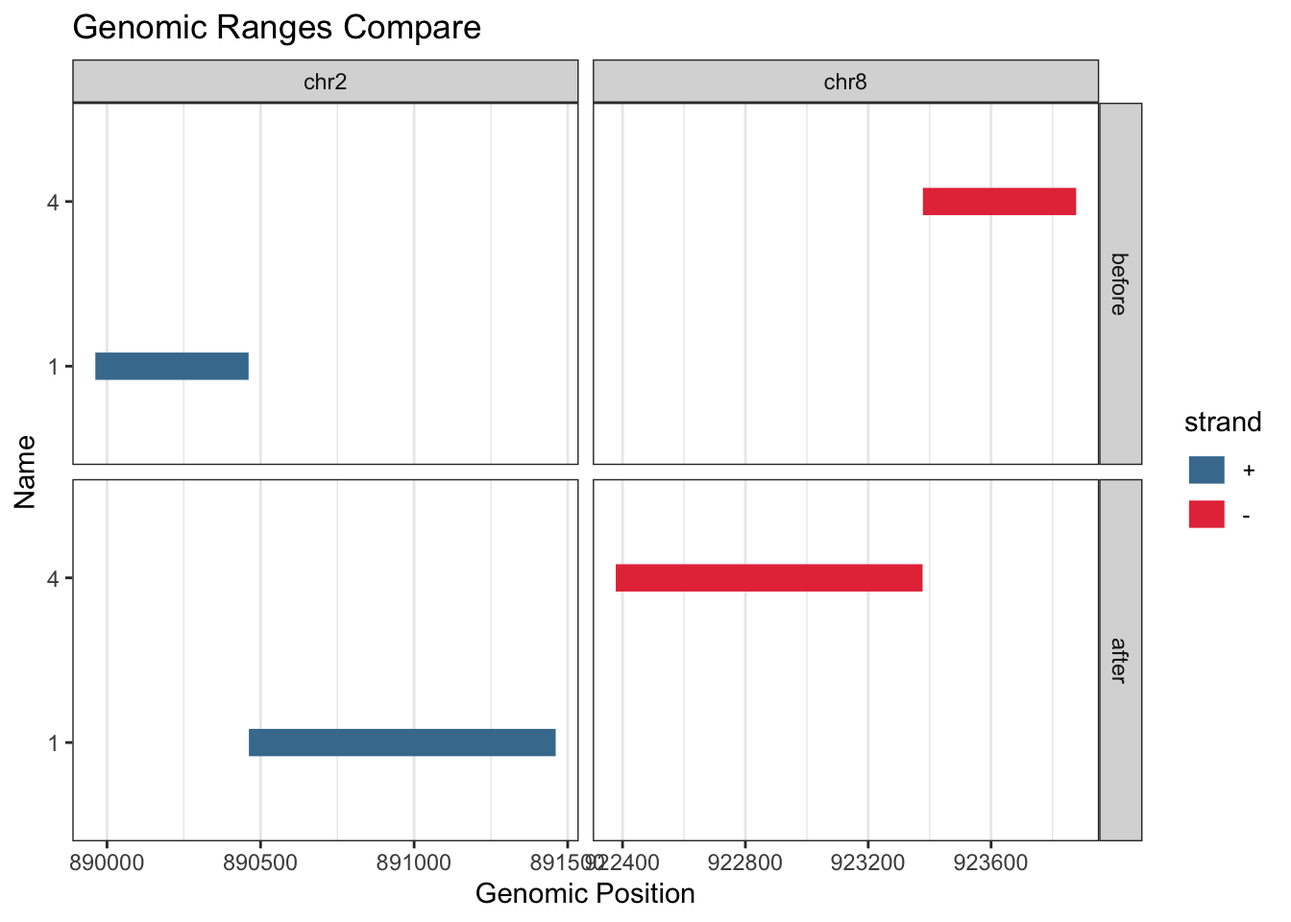
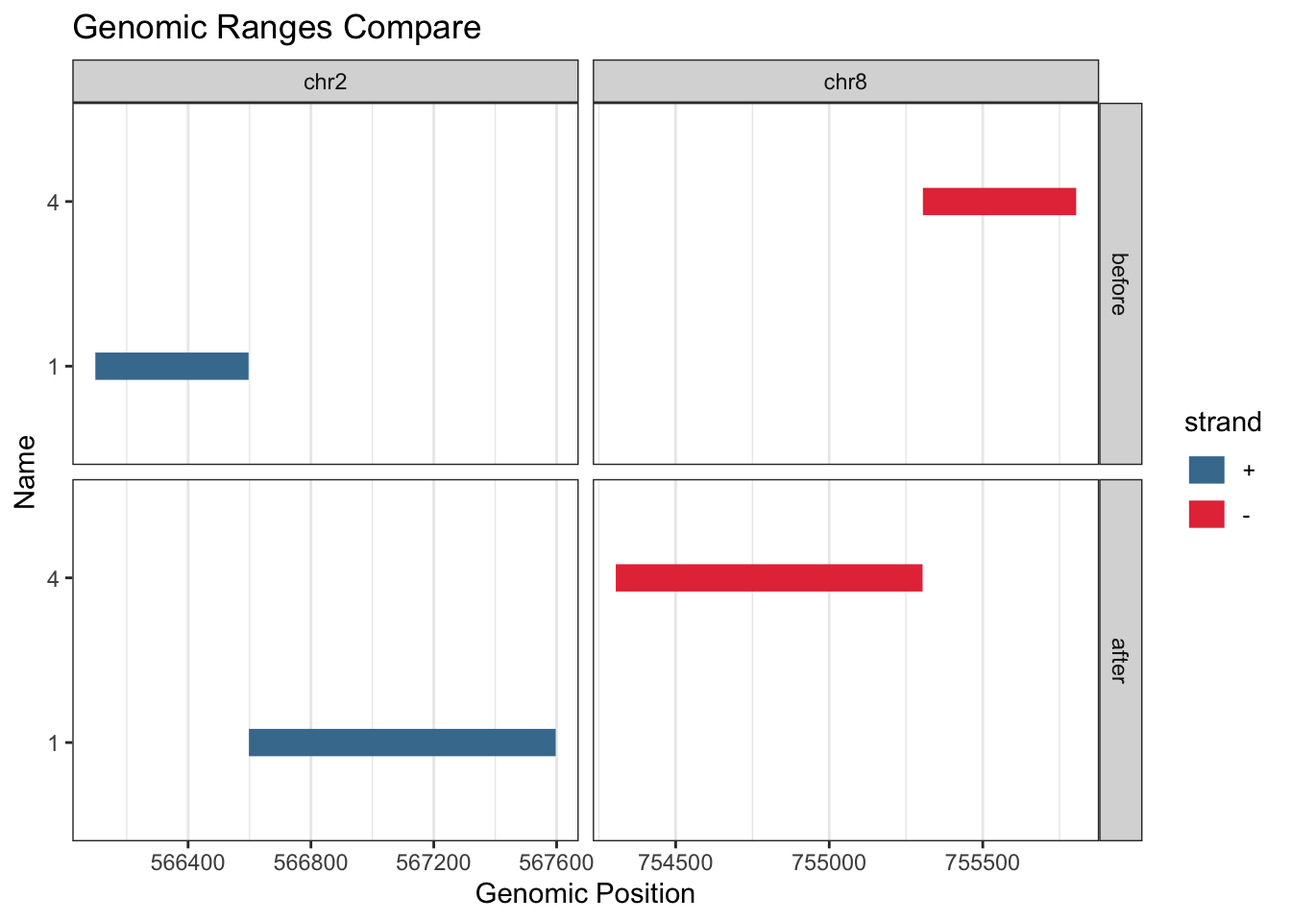
failsafe for pg2 function

Changed region(s): [[0.4062, 0.9062, 0.6875, 0.9688], [0.0625, 0.9062, 0.375, 0.9688], [0.7188, 0.9062, 0.8125, 0.9688]]

diff --git a/docs/03-genomicRanges.html b/docs/03-genomicRanges.html
@@ -403,11 +403,11 @@ pre > code.sourceCode > span > a:first-child::before { text-decoration: underlin
 <pre><code>GRanges object with 5 ranges and 1 metadata column:
       seqnames        ranges strand |     names
          &lt;Rle&gt;     &lt;IRanges&gt;  &lt;Rle&gt; | &lt;integer&gt;
-  [1]     chr2 889962-890461      + |         1
-  [2]     chr4 131544-132043      + |         2
-  [3]     chr6 316003-316502      + |         3
-  [4]     chr8 923378-923877      - |         4
-  [5]    chr10 153184-153683      - |         5
+  [1]     chr2 566098-566597      + |         1
+  [2]     chr4 111897-112396      + |         2
+  [3]     chr6 382826-383325      + |         3
+  [4]     chr8 755305-755804      - |         4
+  [5]    chr10 422810-423309      - |         5
   -------
   seqinfo: 5 sequences from an unspecified genome; no seqlengths</code></pre>
 </div>
@@ -437,11 +437,11 @@ $Experiment_2
 GRanges object with 5 ranges and 1 metadata column:
       seqnames        ranges strand |     names
          &lt;Rle&gt;     &lt;IRanges&gt;  &lt;Rle&gt; | &lt;numeric&gt;
-  [1]     chr2 889962-890461      + |         1
-  [2]     chr4 131544-132043      + |         2
-  [3]     chr6 316003-316502      + |         3
-  [4]     chr8 923378-923877      - |         4
-  [5]    chr10 153184-153683      - |         5
+  [1]     chr2 566098-566597      + |         1
+  [2]     chr4 111897-112396      + |         2
+  [3]     chr6 382826-383325      + |         3
+  [4]     chr8 755305-755804      - |         4
+  [5]    chr10 422810-423309      - |         5
   -------
   seqinfo: 5 sequences from an unspecified genome; no seqlengths</code></pre>
 </div>
@@ -480,12 +480,12 @@ Levels: chr2 chr6 chr10</code></pre>
 <div class="code-copy-outer-scaffold"><div class="sourceCode cell-code" id="cb15"><pre class="sourceCode r code-with-copy"><code class="sourceCode r"><span id="cb15-1"><a href="#cb15-1" aria-hidden="true" tabindex="-1"></a><span class="do">## Get the start positions</span></span>
 <span id="cb15-2"><a href="#cb15-2" aria-hidden="true" tabindex="-1"></a><span class="fu">start</span>(gr2)</span></code></pre></div><button title="Copy to Clipboard" class="code-copy-button"><i class="bi"></i></button></div>
 <div class="cell-output cell-output-stdout">
-<pre><code>[1] 889962 131544 316003 923378 153184</code></pre>
+<pre><code>[1] 566098 111897 382826 755305 422810</code></pre>
 </div>
 <div class="code-copy-outer-scaffold"><div class="sourceCode cell-code" id="cb17"><pre class="sourceCode r code-with-copy"><code class="sourceCode r"><span id="cb17-1"><a href="#cb17-1" aria-hidden="true" tabindex="-1"></a><span class="do">## Get the end positions</span></span>
 <span id="cb17-2"><a href="#cb17-2" aria-hidden="true" tabindex="-1"></a><span class="fu">end</span>(gr2)</span></code></pre></div><button title="Copy to Clipboard" class="code-copy-button"><i class="bi"></i></button></div>
 <div class="cell-output cell-output-stdout">
-<pre><code>[1] 890461 132043 316502 923877 153683</code></pre>
+<pre><code>[1] 566597 112396 383325 755804 423309</code></pre>
 </div>
 <div class="code-copy-outer-scaffold"><div class="sourceCode cell-code" id="cb19"><pre class="sourceCode r code-with-copy"><code class="sourceCode r"><span id="cb19-1"><a href="#cb19-1" aria-hidden="true" tabindex="-1"></a><span class="do">## Get the strand information</span></span>
 <span id="cb19-2"><a href="#cb19-2" aria-hidden="true" tabindex="-1"></a><span class="fu">strand</span>(gr2)</span></code></pre></div><button title="Copy to Clipboard" class="code-copy-button"><i class="bi"></i></button></div>
@@ -581,11 +581,11 @@ Levels(3): + - *</code></pre>
    [3]     chr6       300-400      * |         3      0.50
    [4]     chr6       350-500      * |         4      0.25
    [5]    chr10       500-600      * |         5      0.00
-   [6]     chr2 889962-890461      + |         1        NA
-   [7]     chr4 131544-132043      + |         2        NA
-   [8]     chr6 316003-316502      + |         3        NA
-   [9]     chr8 923378-923877      - |         4        NA
-  [10]    chr10 153184-153683      - |         5        NA
+   [6]     chr2 566098-566597      + |         1        NA
+   [7]     chr4 111897-112396      + |         2        NA
+   [8]     chr6 382826-383325      + |         3        NA
+   [9]     chr8 755305-755804      - |         4        NA
+  [10]    chr10 422810-423309      - |         5        NA
   -------
   seqinfo: 5 sequences from an unspecified genome; no seqlengths</code></pre>
 </div>
@@ -597,8 +597,8 @@ Levels(3): + - *</code></pre>
 <pre><code>GRanges object with 2 ranges and 1 metadata column:
       seqnames        ranges strand |     names
          &lt;Rle&gt;     &lt;IRanges&gt;  &lt;Rle&gt; | &lt;integer&gt;
-  [1]     chr8 923378-923877      - |         4
-  [2]    chr10 153184-153683      - |         5
+  [1]     chr8 755305-755804      - |         4
+  [2]    chr10 422810-423309      - |         5
   -------
   seqinfo: 5 sequences from an unspecified genome; no seqlengths</code></pre>
 </div>
@@ -711,7 +711,7 @@ GRanges object with 0 ranges and 2 metadata columns:
          &lt;Rle&gt;     &lt;IRanges&gt;  &lt;Rle&gt; | &lt;numeric&gt; &lt;numeric&gt;
   [1]     chr2       100-200      * |         1      1.00
   [2]     chr2       150-300      * |         2      0.75
-  [3]     chr2 889962-890461      + |         1        NA
+  [3]     chr2 566098-566597      + |         1        NA
   -------
   seqinfo: 5 sequences from an unspecified genome; no seqlengths</code></pre>
 </div>
@@ -768,35 +768,35 @@ GRanges object with 0 ranges and 2 metadata columns:
 <span id="cb41-33"><a href="#cb41-33" aria-hidden="true" tabindex="-1"></a>    <span class="fu">mcols</span>(gr2)[name] <span class="ot">&lt;-</span> <span class="fu">seq</span>(<span class="dv">1</span>,<span class="fu">length</span>(gr2))</span>
 <span id="cb41-34"><a href="#cb41-34" aria-hidden="true" tabindex="-1"></a>  }</span>
 <span id="cb41-35"><a href="#cb41-35" aria-hidden="true" tabindex="-1"></a>  </span>
-<span id="cb41-36"><a href="#cb41-36" aria-hidden="true" tabindex="-1"></a>  <span class="cf">if</span>(<span class="sc">!</span><span class="st">"-"</span> <span class="sc">%in%</span> <span class="fu">strand</span>(gr)){</span>
+<span id="cb41-36"><a href="#cb41-36" aria-hidden="true" tabindex="-1"></a>  <span class="cf">if</span>(<span class="sc">!</span><span class="st">"-"</span> <span class="sc">%in%</span> <span class="fu">factor</span>(<span class="fu">strand</span>(gr))){</span>
 <span id="cb41-37"><a href="#cb41-37" aria-hidden="true" tabindex="-1"></a>    strand <span class="ot">=</span> <span class="st">"+"</span></span>
 <span id="cb41-38"><a href="#cb41-38" aria-hidden="true" tabindex="-1"></a>  }</span>
 <span id="cb41-39"><a href="#cb41-39" aria-hidden="true" tabindex="-1"></a>  </span>
 <span id="cb41-40"><a href="#cb41-40" aria-hidden="true" tabindex="-1"></a>  <span class="cf">if</span>(strand <span class="sc">==</span> <span class="st">"+"</span>){</span>
-<span id="cb41-41"><a href="#cb41-41" aria-hidden="true" tabindex="-1"></a>    gr_plus <span class="ot">&lt;-</span> <span class="fu">subset</span>(gr, <span class="fu">strand</span>(gr) <span class="sc">%in%</span> <span class="fu">c</span>(<span class="st">"+"</span>,<span class="st">"*"</span>))[<span class="dv">1</span><span class="sc">:</span><span class="fu">min</span>(n,<span class="fu">length</span>(gr))]</span>
+<span id="cb41-41"><a href="#cb41-41" aria-hidden="true" tabindex="-1"></a>    gr_plus <span class="ot">&lt;-</span> <span class="fu">subset</span>(gr, <span class="fu">factor</span>(<span class="fu">strand</span>(gr)) <span class="sc">%in%</span> <span class="fu">c</span>(<span class="st">"+"</span>,<span class="st">"*"</span>))[<span class="dv">1</span><span class="sc">:</span><span class="fu">min</span>(n,<span class="fu">length</span>(gr))]</span>
 <span id="cb41-42"><a href="#cb41-42" aria-hidden="true" tabindex="-1"></a>    gr <span class="ot">&lt;-</span> gr_plus</span>
 <span id="cb41-43"><a href="#cb41-43" aria-hidden="true" tabindex="-1"></a>  } <span class="cf">else</span> <span class="cf">if</span> (strand <span class="sc">==</span> <span class="st">"-"</span>){</span>
-<span id="cb41-44"><a href="#cb41-44" aria-hidden="true" tabindex="-1"></a>    gr_minus <span class="ot">&lt;-</span> <span class="fu">subset</span>(gr, <span class="fu">strand</span>(gr) <span class="sc">==</span> <span class="st">"-"</span>)[<span class="dv">1</span><span class="sc">:</span><span class="fu">min</span>(n,<span class="fu">length</span>(gr))]</span>
+<span id="cb41-44"><a href="#cb41-44" aria-hidden="true" tabindex="-1"></a>    gr_minus <span class="ot">&lt;-</span> <span class="fu">subset</span>(gr, <span class="fu">factor</span>(<span class="fu">strand</span>(gr)) <span class="sc">==</span> <span class="st">"-"</span>)[<span class="dv">1</span><span class="sc">:</span><span class="fu">min</span>(n,<span class="fu">length</span>(gr))]</span>
 <span id="cb41-45"><a href="#cb41-45" aria-hidden="true" tabindex="-1"></a>    gr <span class="ot">&lt;-</span> gr_minus</span>
 <span id="cb41-46"><a href="#cb41-46" aria-hidden="true" tabindex="-1"></a>  } <span class="cf">else</span> {</span>
-<span id="cb41-47"><a href="#cb41-47" aria-hidden="true" tabindex="-1"></a>    gr_plus <span class="ot">&lt;-</span> <span class="fu">subset</span>(gr, <span class="fu">strand</span>(gr) <span class="sc">%in%</span> <span class="fu">c</span>(<span class="st">"+"</span>,<span class="st">"*"</span>))[<span class="dv">1</span><span class="sc">:</span><span class="fu">min</span>(n,<span class="fu">length</span>(gr))]</span>
-<span id="cb41-48"><a href="#cb41-48" aria-hidden="true" tabindex="-1"></a>    gr_minus <span class="ot">&lt;-</span> <span class="fu">subset</span>(gr, <span class="fu">strand</span>(gr) <span class="sc">==</span> <span class="st">"-"</span>)[<span class="dv">1</span><span class="sc">:</span><span class="fu">min</span>(n,<span class="fu">length</span>(gr))]</span>
+<span id="cb41-47"><a href="#cb41-47" aria-hidden="true" tabindex="-1"></a>    gr_plus <span class="ot">&lt;-</span> <span class="fu">subset</span>(gr, <span class="fu">factor</span>(<span class="fu">strand</span>(gr)) <span class="sc">%in%</span> <span class="fu">c</span>(<span class="st">"+"</span>,<span class="st">"*"</span>))[<span class="dv">1</span><span class="sc">:</span><span class="fu">min</span>(n,<span class="fu">length</span>(gr))]</span>
+<span id="cb41-48"><a href="#cb41-48" aria-hidden="true" tabindex="-1"></a>    gr_minus <span class="ot">&lt;-</span> <span class="fu">subset</span>(gr, <span class="fu">factor</span>(<span class="fu">strand</span>(gr)) <span class="sc">==</span> <span class="st">"-"</span>)[<span class="dv">1</span><span class="sc">:</span><span class="fu">min</span>(n,<span class="fu">length</span>(gr))]</span>
 <span id="cb41-49"><a href="#cb41-49" aria-hidden="true" tabindex="-1"></a>    gr <span class="ot">&lt;-</span> <span class="fu">c</span>(gr_plus, gr_minus)</span>
 <span id="cb41-50"><a href="#cb41-50" aria-hidden="true" tabindex="-1"></a>  }</span>
 <span id="cb41-51"><a href="#cb41-51" aria-hidden="true" tabindex="-1"></a>  </span>
-<span id="cb41-52"><a href="#cb41-52" aria-hidden="true" tabindex="-1"></a>  <span class="cf">if</span>(<span class="sc">!</span><span class="st">"-"</span> <span class="sc">%in%</span> <span class="fu">strand</span>(gr2)){</span>
+<span id="cb41-52"><a href="#cb41-52" aria-hidden="true" tabindex="-1"></a>  <span class="cf">if</span>(<span class="sc">!</span><span class="st">"-"</span> <span class="sc">%in%</span> <span class="fu">factor</span>(<span class="fu">strand</span>(gr2))){</span>
 <span id="cb41-53"><a href="#cb41-53" aria-hidden="true" tabindex="-1"></a>    strand <span class="ot">=</span> <span class="st">"+"</span></span>
 <span id="cb41-54"><a href="#cb41-54" aria-hidden="true" tabindex="-1"></a>  }</span>
 <span id="cb41-55"><a href="#cb41-55" aria-hidden="true" tabindex="-1"></a>  </span>
 <span id="cb41-56"><a href="#cb41-56" aria-hidden="true" tabindex="-1"></a>  <span class="cf">if</span>(strand <span class="sc">==</span> <span class="st">"+"</span>){</span>
-<span id="cb41-57"><a href="#cb41-57" aria-hidden="true" tabindex="-1"></a>    gr2_plus <span class="ot">&lt;-</span> <span class="fu">subset</span>(gr2, <span class="fu">strand</span>(gr2) <span class="sc">%in%</span> <span class="fu">c</span>(<span class="st">"+"</span>,<span class="st">"*"</span>))[<span class="dv">1</span><span class="sc">:</span><span class="fu">min</span>(n,<span class="fu">length</span>(gr2))]</span>
+<span id="cb41-57"><a href="#cb41-57" aria-hidden="true" tabindex="-1"></a>    gr2_plus <span class="ot">&lt;-</span> <span class="fu">subset</span>(gr2, <span class="fu">factor</span>(<span class="fu">strand</span>(gr2)) <span class="sc">%in%</span> <span class="fu">c</span>(<span class="st">"+"</span>,<span class="st">"*"</span>))[<span class="dv">1</span><span class="sc">:</span><span class="fu">min</span>(n,<span class="fu">length</span>(gr2))]</span>
 <span id="cb41-58"><a href="#cb41-58" aria-hidden="true" tabindex="-1"></a>    gr2 <span class="ot">&lt;-</span> gr2_plus</span>
 <span id="cb41-59"><a href="#cb41-59" aria-hidden="true" tabindex="-1"></a>  } <span class="cf">else</span> <span class="cf">if</span> (strand <span class="sc">==</span> <span class="st">"-"</span>){</span>
-<span id="cb41-60"><a href="#cb41-60" aria-hidden="true" tabindex="-1"></a>    gr2_minus <span class="ot">&lt;-</span> <span class="fu">subset</span>(gr2, <span class="fu">strand</span>(gr2) <span class="sc">==</span> <span class="st">"-"</span>)[<span class="dv">1</span><span class="sc">:</span><span class="fu">min</span>(n,<span class="fu">length</span>(gr2))]</span>
+<span id="cb41-60"><a href="#cb41-60" aria-hidden="true" tabindex="-1"></a>    gr2_minus <span class="ot">&lt;-</span> <span class="fu">subset</span>(gr2, <span class="fu">factor</span>(<span class="fu">strand</span>(gr2)) <span class="sc">==</span> <span class="st">"-"</span>)[<span class="dv">1</span><span class="sc">:</span><span class="fu">min</span>(n,<span class="fu">length</span>(gr2))]</span>
 <span id="cb41-61"><a href="#cb41-61" aria-hidden="true" tabindex="-1"></a>    gr2 <span class="ot">&lt;-</span> gr2_minus</span>
 <span id="cb41-62"><a href="#cb41-62" aria-hidden="true" tabindex="-1"></a>  } <span class="cf">else</span> {</span>
-<span id="cb41-63"><a href="#cb41-63" aria-hidden="true" tabindex="-1"></a>    gr2_plus <span class="ot">&lt;-</span> <span class="fu">subset</span>(gr2, <span class="fu">strand</span>(gr2) <span class="sc">%in%</span> <span class="fu">c</span>(<span class="st">"+"</span>,<span class="st">"*"</span>))[<span class="dv">1</span><span class="sc">:</span><span class="fu">min</span>(n,<span class="fu">length</span>(gr2))]</span>
-<span id="cb41-64"><a href="#cb41-64" aria-hidden="true" tabindex="-1"></a>    gr2_minus <span class="ot">&lt;-</span> <span class="fu">subset</span>(gr2, <span class="fu">strand</span>(gr2) <span class="sc">==</span> <span class="st">"-"</span>)[<span class="dv">1</span><span class="sc">:</span><span class="fu">min</span>(n,<span class="fu">length</span>(gr2))]</span>
+<span id="cb41-63"><a href="#cb41-63" aria-hidden="true" tabindex="-1"></a>    gr2_plus <span class="ot">&lt;-</span> <span class="fu">subset</span>(gr2, <span class="fu">factor</span>(<span class="fu">strand</span>(gr2)) <span class="sc">%in%</span> <span class="fu">c</span>(<span class="st">"+"</span>,<span class="st">"*"</span>))[<span class="dv">1</span><span class="sc">:</span><span class="fu">min</span>(n,<span class="fu">length</span>(gr2))]</span>
+<span id="cb41-64"><a href="#cb41-64" aria-hidden="true" tabindex="-1"></a>    gr2_minus <span class="ot">&lt;-</span> <span class="fu">subset</span>(gr2, <span class="fu">factor</span>(<span class="fu">strand</span>(gr2)) <span class="sc">==</span> <span class="st">"-"</span>)[<span class="dv">1</span><span class="sc">:</span><span class="fu">min</span>(n,<span class="fu">length</span>(gr2))]</span>
 <span id="cb41-65"><a href="#cb41-65" aria-hidden="true" tabindex="-1"></a>    gr2 <span class="ot">&lt;-</span> <span class="fu">c</span>(gr2_plus, gr2_minus)</span>
 <span id="cb41-66"><a href="#cb41-66" aria-hidden="true" tabindex="-1"></a>  }</span>
 <span id="cb41-67"><a href="#cb41-67" aria-hidden="true" tabindex="-1"></a>  </span>
@@ -845,11 +845,11 @@ GRanges object with 0 ranges and 2 metadata columns:
 <pre><code>GRanges object with 5 ranges and 1 metadata column:
       seqnames        ranges strand |     names
          &lt;Rle&gt;     &lt;IRanges&gt;  &lt;Rle&gt; | &lt;integer&gt;
-  [1]     chr2 889962-890461      + |         1
-  [2]     chr4 131544-132043      + |         2
-  [3]     chr6 316003-316502      + |         3
-  [4]     chr8 923378-923877      - |         4
-  [5]    chr10 153184-153683      - |         5
+  [1]     chr2 566098-566597      + |         1
+  [2]     chr4 111897-112396      + |         2
+  [3]     chr6 382826-383325      + |         3
+  [4]     chr8 755305-755804      - |         4
+  [5]    chr10 422810-423309      - |         5
   -------
   seqinfo: 5 sequences from an unspecified genome; no seqlengths</code></pre>
 </div>
@@ -997,11 +997,11 @@ GRanges object with 0 ranges and 2 metadata columns:
 <pre><code>GRanges object with 5 ranges and 1 metadata column:
       seqnames        ranges strand |     names
          &lt;Rle&gt;     &lt;IRanges&gt;  &lt;Rle&gt; | &lt;integer&gt;
-  [1]     chr2 890062-890561      + |         1
-  [2]     chr4 131644-132143      + |         2
-  [3]     chr6 316103-316602      + |         3
-  [4]     chr8 923478-923977      - |         4
-  [5]    chr10 153284-153783      - |         5
+  [1]     chr2 566198-566697      + |         1
+  [2]     chr4 111997-112496      + |         2
+  [3]     chr6 382926-383425      + |         3
+  [4]     chr8 755405-755904      - |         4
+  [5]    chr10 422910-423409      - |         5
   -------
   seqinfo: 5 sequences from an unspecified genome; no seqlengths</code></pre>
 </div>
@@ -1022,11 +1022,11 @@ GRanges object with 0 ranges and 2 metadata columns:
 <pre><code>GRanges object with 5 ranges and 1 metadata column:
       seqnames        ranges strand |     names
          &lt;Rle&gt;     &lt;IRanges&gt;  &lt;Rle&gt; | &lt;integer&gt;
-  [1]     chr2 889962-890061      + |         1
-  [2]     chr4 131544-131643      + |         2
-  [3]     chr6 316003-316102      + |         3
-  [4]     chr8 923778-923877      - |         4
-  [5]    chr10 153584-153683      - |         5
+  [1]     chr2 566098-566197      + |         1
+  [2]     chr4 111897-111996      + |         2
+  [3]     chr6 382826-382925      + |         3
+  [4]     chr8 755705-755804      - |         4
+  [5]    chr10 423210-423309      - |         5
   -------
   seqinfo: 5 sequences from an unspecified genome; no seqlengths</code></pre>
 </div>
@@ -1050,11 +1050,11 @@ GRanges object with 0 ranges and 2 metadata columns:
 <pre><code>GRanges object with 5 ranges and 1 metadata column:
       seqnames        ranges strand |     names
          &lt;Rle&gt;     &lt;IRanges&gt;  &lt;Rle&gt; | &lt;integer&gt;
-  [1]     chr2 888962-889961      + |         1
-  [2]     chr4 130544-131543      + |         2
-  [3]     chr6 315003-316002      + |         3
-  [4]     chr8 923878-924877      - |         4
-  [5]    chr10 153684-154683      - |         5
+  [1]     chr2 565098-566097      + |         1
+  [2]     chr4 110897-111896      + |         2
+  [3]     chr6 381826-382825      + |         3
+  [4]     chr8 755805-756804      - |         4
+  [5]    chr10 423310-424309      - |         5
   -------
   seqinfo: 5 sequences from an unspecified genome; no seqlengths</code></pre>
 </div>
@@ -1074,11 +1074,11 @@ GRanges object with 0 ranges and 2 metadata columns:
 <pre><code>GRanges object with 5 ranges and 1 metadata column:
       seqnames        ranges strand |     names
          &lt;Rle&gt;     &lt;IRanges&gt;  &lt;Rle&gt; | &lt;integer&gt;
-  [1]     chr2 890462-891461      + |         1
-  [2]     chr4 132044-133043      + |         2
-  [3]     chr6 316503-317502      + |         3
-  [4]     chr8 922378-923377      - |         4
-  [5]    chr10 152184-153183      - |         5
+  [1]     chr2 566598-567597      + |         1
+  [2]     chr4 112397-113396      + |         2
+  [3]     chr6 383326-384325      + |         3
+  [4]     chr8 754305-755304      - |         4
+  [5]    chr10 421810-422809      - |         5
   -------
   seqinfo: 5 sequences from an unspecified genome; no seqlengths</code></pre>
 </div>
@@ -1098,11 +1098,11 @@ GRanges object with 0 ranges and 2 metadata columns:
 <pre><code>GRanges object with 5 ranges and 1 metadata column:
       seqnames        ranges strand |     names
          &lt;Rle&gt;     &lt;IRanges&gt;  &lt;Rle&gt; | &lt;integer&gt;
-  [1]     chr2 888962-890961      + |         1
-  [2]     chr4 130544-132543      + |         2
-  [3]     chr6 315003-317002      + |         3
-  [4]     chr8 922878-924877      - |         4
-  [5]    chr10 152684-154683      - |         5
+  [1]     chr2 565098-567097      + |         1
+  [2]     chr4 110897-112896      + |         2
+  [3]     chr6 381826-383825      + |         3
+  [4]     chr8 754805-756804      - |         4
+  [5]    chr10 422310-424309      - |         5
   -------
   seqinfo: 5 sequences from an unspecified genome; no seqlengths</code></pre>
 </div>
@@ -1122,11 +1122,11 @@ GRanges object with 0 ranges and 2 metadata columns:
 <pre><code>GRanges object with 5 ranges and 1 metadata column:
       seqnames        ranges strand |     names
          &lt;Rle&gt;     &lt;IRanges&gt;  &lt;Rle&gt; | &lt;integer&gt;
-  [1]     chr2 889462-891461      + |         1
-  [2]     chr4 131044-133043      + |         2
-  [3]     chr6 315503-317502      + |         3
-  [4]     chr8 922378-924377      - |         4
-  [5]    chr10 152184-154183      - |         5
+  [1]     chr2 565598-567597      + |         1
+  [2]     chr4 111397-113396      + |         2
+  [3]     chr6 382326-384325      + |         3
+  [4]     chr8 754305-756304      - |         4
+  [5]    chr10 421810-423809      - |         5
   -------
   seqinfo: 5 sequences from an unspecified genome; no seqlengths</code></pre>
 </div>
@@ -1146,11 +1146,11 @@ GRanges object with 0 ranges and 2 metadata columns:
 <pre><code>GRanges object with 5 ranges and 1 metadata column:
       seqnames        ranges strand |     names
          &lt;Rle&gt;     &lt;IRanges&gt;  &lt;Rle&gt; | &lt;integer&gt;
-  [1]     chr2 889462-891461      + |         1
-  [2]     chr4 131044-133043      + |         2
-  [3]     chr6 315503-317502      + |         3
-  [4]     chr8 922878-924877      - |         4
-  [5]    chr10 152684-154683      - |         5
+  [1]     chr2 565598-567597      + |         1
+  [2]     chr4 111397-113396      + |         2
+  [3]     chr6 382326-384325      + |         3
+  [4]     chr8 754805-756804      - |         4
+  [5]    chr10 422310-424309      - |         5
   -------
   seqinfo: 5 sequences from an unspecified genome; no seqlengths</code></pre>
 </div>
@@ -1171,11 +1171,11 @@ GRanges object with 0 ranges and 2 metadata columns:
 <pre><code>GRanges object with 5 ranges and 1 metadata column:
       seqnames        ranges strand |     names
          &lt;Rle&gt;     &lt;IRanges&gt;  &lt;Rle&gt; | &lt;integer&gt;
-  [1]     chr2 887962-890161      + |         1
-  [2]     chr4 129544-131743      + |         2
-  [3]     chr6 314003-316202      + |         3
-  [4]     chr8 923678-925877      - |         4
-  [5]    chr10 153484-155683      - |         5
+  [1]     chr2 564098-566297      + |         1
+  [2]     chr4 109897-112096      + |         2
+  [3]     chr6 380826-383025      + |         3
+  [4]     chr8 755605-757804      - |         4
+  [5]    chr10 423110-425309      - |         5
   -------
   seqinfo: 5 sequences from an unspecified genome; no seqlengths</code></pre>
 </div>
@@ -1195,11 +1195,11 @@ GRanges object with 0 ranges and 2 metadata columns:
 <pre><code>GRanges object with 5 ranges and 1 metadata column:
       seqnames        ranges strand |     names
          &lt;Rle&gt;     &lt;IRanges&gt;  &lt;Rle&gt; | &lt;integer&gt;
-  [1]     chr2 889862-890061      + |         1
-  [2]     chr4 131444-131643      + |         2
-  [3]     chr6 315903-316102      + |         3
-  [4]     chr8 923778-923977      - |         4
-  [5]    chr10 153584-153783      - |         5
+  [1]     chr2 565998-566197      + |         1
+  [2]     chr4 111797-111996      + |         2
+  [3]     chr6 382726-382925      + |         3
+  [4]     chr8 755705-755904      - |         4
+  [5]    chr10 423210-423409      - |         5
   -------
   seqinfo: 5 sequences from an unspecified genome; no seqlengths</code></pre>
 </div>
@@ -1219,11 +1219,11 @@ GRanges object with 0 ranges and 2 metadata columns:
 <pre><code>GRanges object with 5 ranges and 1 metadata column:
       seqnames        ranges strand |     names
          &lt;Rle&gt;     &lt;IRanges&gt;  &lt;Rle&gt; | &lt;integer&gt;
-  [1]     chr2 890451-890560      + |         1
-  [2]     chr4 132033-132142      + |         2
-  [3]     chr6 316492-316601      + |         3
-  [4]     chr8 923279-923388      - |         4
-  [5]    chr10 153085-153194      - |         5
+  [1]     chr2 566587-566696      + |         1
+  [2]     chr4 112386-112495      + |         2
+  [3]     chr6 383315-383424      + |         3
+  [4]     chr8 755206-755315      - |         4
+  [5]    chr10 422711-422820      - |         5
   -------
   seqinfo: 5 sequences from an unspecified genome; no seqlengths</code></pre>
 </div>
@@ -1520,11 +1520,11 @@ $Experiment_2
 GRanges object with 5 ranges and 1 metadata column:
       seqnames        ranges strand |     names
          &lt;Rle&gt;     &lt;IRanges&gt;  &lt;Rle&gt; | &lt;numeric&gt;
-  [1]     chr2 890062-890561      + |         1
-  [2]     chr4 131644-132143      + |         2
-  [3]     chr6 316103-316602      + |         3
-  [4]     chr8 923478-923977      - |         4
-  [5]    chr10 153284-153783      - |         5
+  [1]     chr2 566198-566697      + |         1
+  [2]     chr4 111997-112496      + |         2
+  [3]     chr6 382926-383425      + |         3
+  [4]     chr8 755405-755904      - |         4
+  [5]    chr10 422910-423409      - |         5
   -------
   seqinfo: 5 sequences from an unspecified genome; no seqlengths</code></pre>
 </div>
